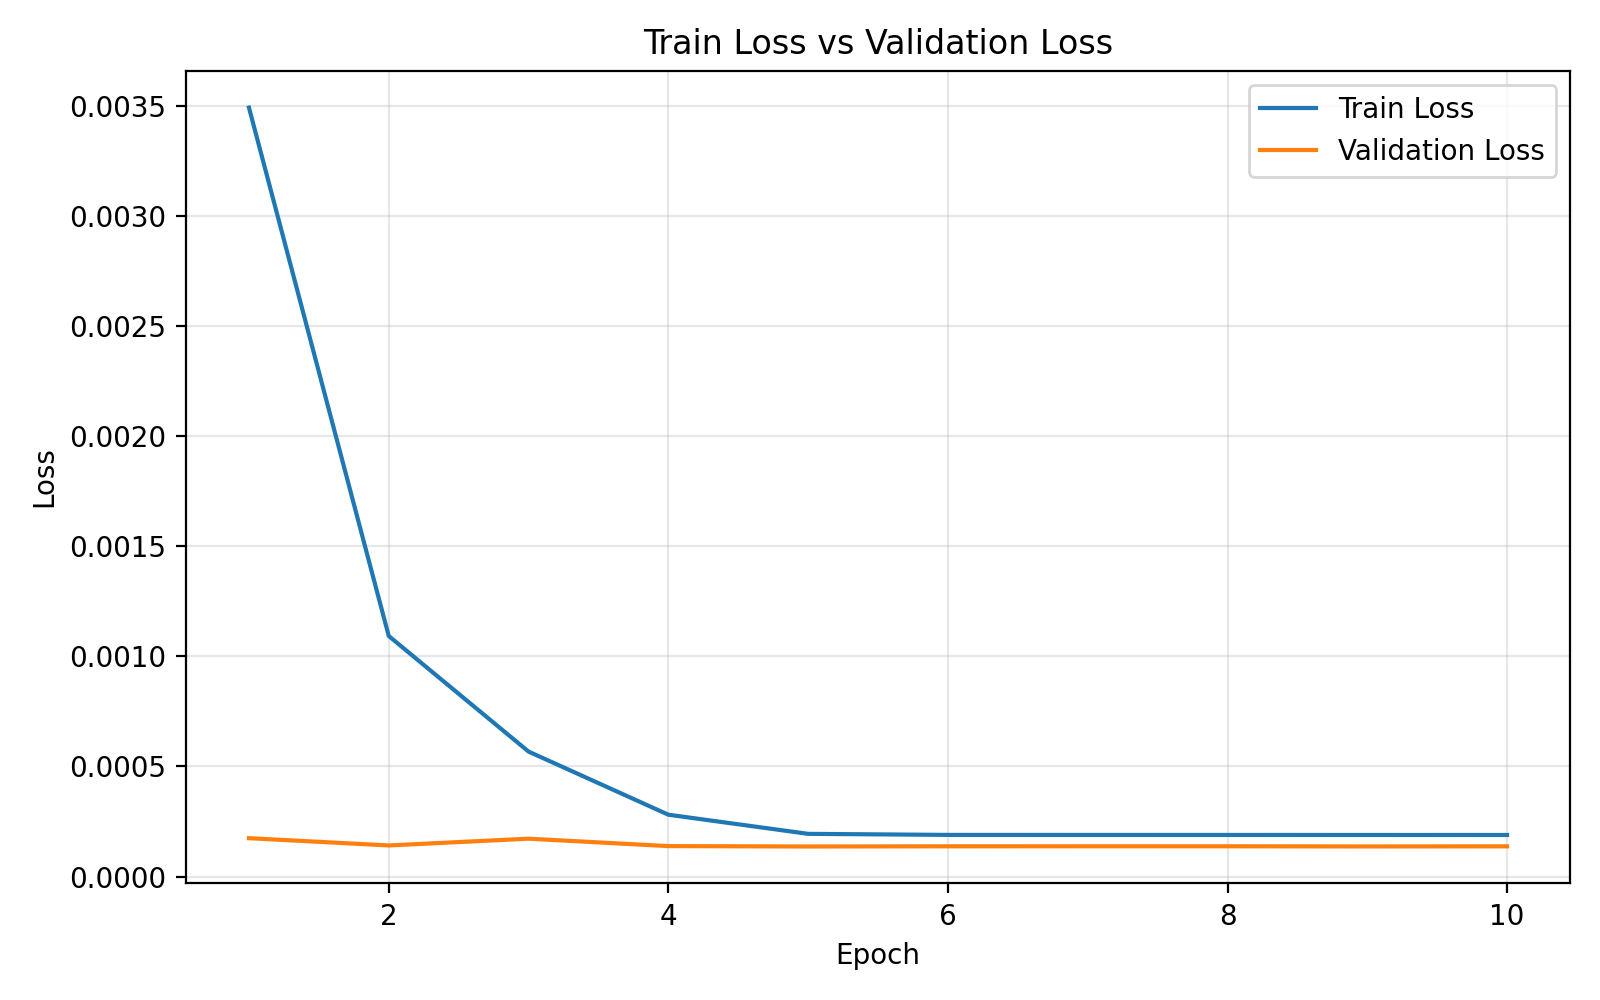
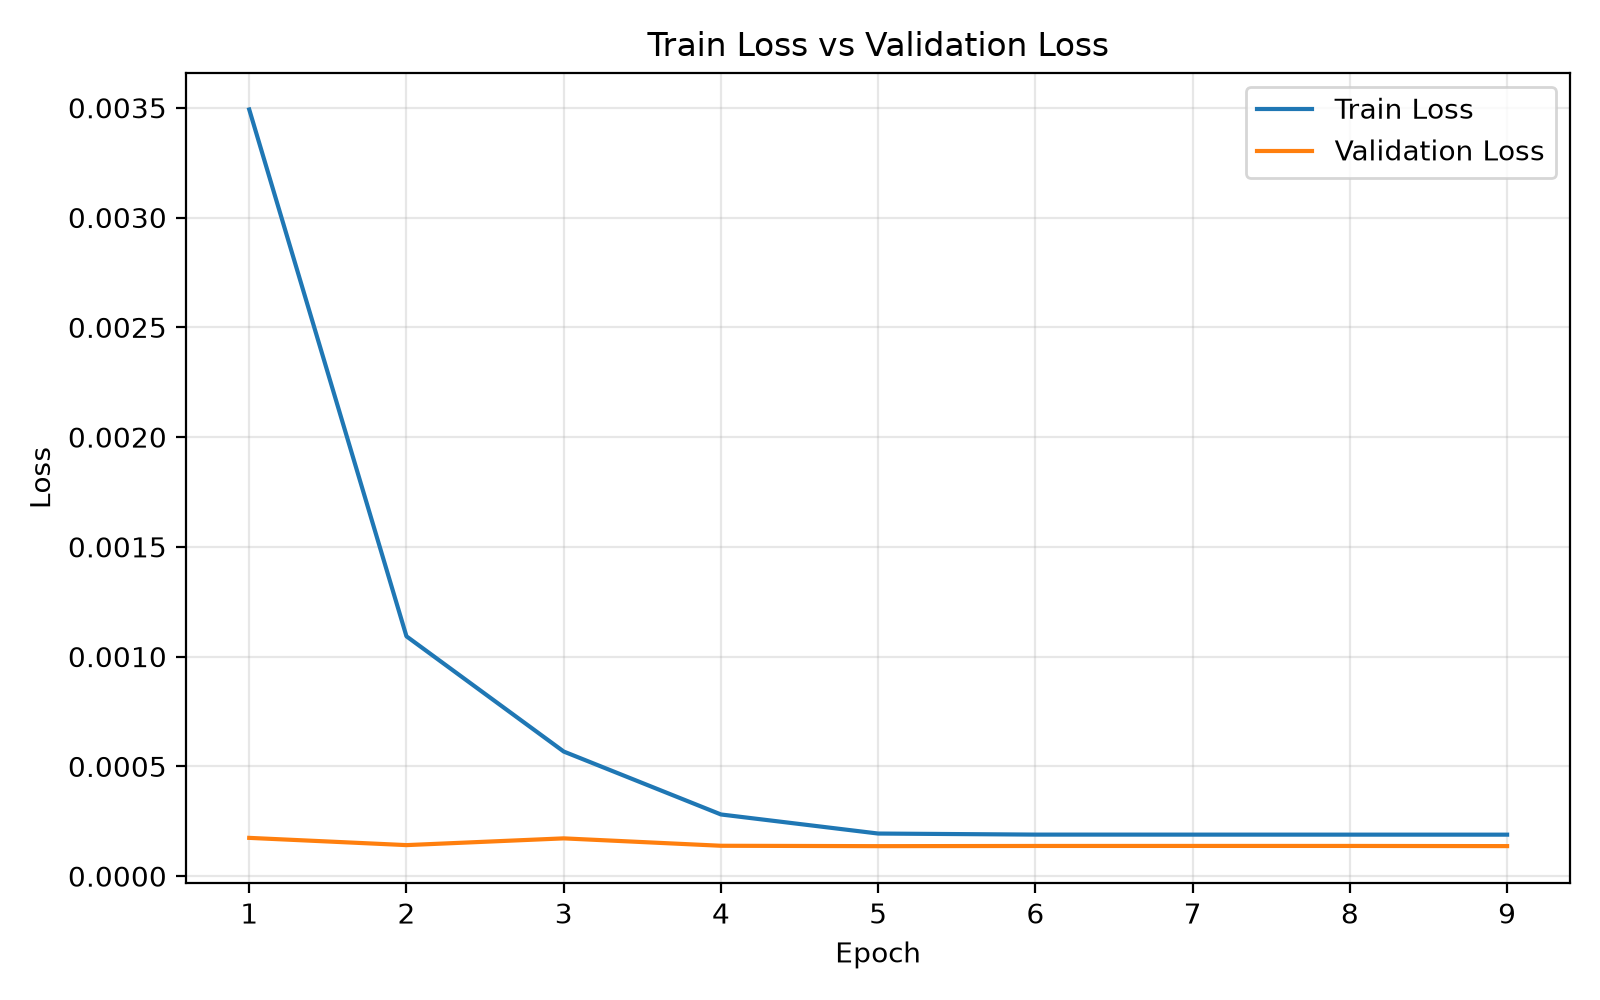
Add results README and figures; trim final-run history to its original 9 epochs

diff --git a/results/README.md b/results/README.md
@@ -1,0 +1,110 @@
+# Results
+
+This folder contains the training history and the plots of every run in Chapter 5 of the thesis, and the test metrics that the scripts recorded. Model weights are not included. The weights of the final model will be provided as a GitHub Release asset (see the main [README](../README.md#pretrained-model)).
+
+All files were written by the training scripts in [`training/experiments/`](../training/experiments/). Apart from the changes listed at the end, they are unchanged.
+
+## Final model
+
+The final configuration was retrained on the full participant-level split (26 / 6 / 6 recordings) and evaluated once on the test set of unseen participants (thesis Section 5.9, Table 21).
+
+![Mean RMSE of the final model and of the no-change reference on the validation and test sets](../docs/figures/final_results.png)
+
+*Mean RMSE of the final model compared with the no-change reference, which assumes zero head motion between consecutive frames. Validation values come from `history.csv` (best epoch 5), test values from `experiments_summary.csv`.*
+
+![RMSE per angle of the final model on the validation and test sets](../docs/figures/per_angle_results.png)
+
+*RMSE per angle. Yaw is the only angle with a higher error on the test set.*
+
+## Folder layout
+
+The folders follow the order of [`training/experiments/`](../training/experiments/). Every run folder carries the name that its script writes, `<experiment>__<value>`.
+
+```
+results/
+├── experiments_summary.csv
+├── 01_loss_function/
+│   └── Loss_Function__L1_Beta_0.1/
+│       ├── history.csv
+│       ├── plot_train_vs_val_loss.png
+│       ├── plot_val_mean_rmse.png
+│       ├── plot_val_mean_mae.png
+│       └── plot_val_mean_medae.png
+├── 02_imu_angle_aggregation/
+├── ...
+└── 08_final_model/
+    └── Final_Full_Dataset__Final_Config_All_Recordings/
+```
+
+| File | Content |
+|---|---|
+| `history.csv` | One row per epoch: training and validation loss; MAE, RMSE and MedAE in degrees for roll, pitch, yaw and their mean, on the training and validation sets; learning rates of the backbone and of the rest of the model; epoch time in minutes. |
+| `plot_train_vs_val_loss.png` | Training and validation loss per epoch. |
+| `plot_val_mean_rmse.png`, `plot_val_mean_mae.png`, `plot_val_mean_medae.png` | Validation Mean RMSE, MAE and MedAE per epoch. |
+| `experiments_summary.csv` | One row per run: best epoch, test loss, and test MAE, RMSE and MedAE per angle and mean. Each script appends its row after evaluating its best checkpoint on the test set. |
+
+The best epoch is the epoch with the lowest validation loss. Training stopped when the validation loss did not improve for 4 epochs, so every history ends 4 epochs after the best epoch.
+
+## Results of the experiments
+
+All values are validation metrics in degrees at the best epoch, computed from the `history.csv` files, on the intermediate subset (9 / 2 / 2 recordings). Each block corresponds to one table of Chapter 5.
+
+- The experiments are sequential (see [`training/README.md`](../training/README.md#how-the-experiments-were-run)).
+- **(ref.)** marks the reference configuration of a block. It was not trained again; its run belongs to an earlier step, and its folder is given in the table.
+- The configuration selected in each block is in **bold**.
+- The no-change reference on this validation set is a Mean RMSE of 0.845° (thesis Table 7).
+
+| Experiment | Configuration | Run folder | Best epoch | RMSE roll | RMSE pitch | RMSE yaw | Mean RMSE | Mean MAE | Mean MedAE |
+|---|---|---|---|---|---|---|---|---|---|
+| 1. Loss function (Table 8) | Smooth L1, β = 0.05 | `Loss_Function__L1_Beta_0.05` | 3 | 1.220 | 1.194 | 0.124 | 0.846 | 0.555 | 0.315 |
+|  | **Smooth L1, β = 0.1** | `Loss_Function__L1_Beta_0.1` | 6 | 1.223 | 1.194 | 0.123 | 0.846 | 0.553 | 0.314 |
+|  | Geodesic (ref.) | `Loss_Function__Geodesic` | 6 | 1.129 | 1.077 | 0.514 | 0.906 | 0.470 | 0.210 |
+| 2. IMU-angle aggregation (Table 9) | Nearest neighbour (ref.) | `Loss_Function__L1_Beta_0.1` | 6 | 1.223 | 1.194 | 0.123 | 0.846 | 0.553 | 0.314 |
+|  | Window 11 | `IMU_Angle_Experiment__Window_11` | 15 | 1.128 | 1.077 | 0.514 | 0.906 | 0.470 | 0.210 |
+|  | Window 21 | `IMU_Angle_Experiment__Window_21` | 9 | 1.009 | 0.972 | 0.385 | 0.789 | 0.411 | 0.169 |
+|  | **Window 31** | `IMU_Angle_Experiment__Window_31` | 9 | 0.884 | 0.877 | 0.323 | 0.695 | 0.355 | 0.136 |
+| 3. Temporal context (Table 10) | Past 10 / Future 0 | `Temporal_Context_Sweep__Past10_Future0` | 9 | 0.897 | 0.878 | 0.286 | 0.687 | 0.370 | 0.156 |
+|  | Past 20 / Future 0 | `Temporal_Context_Sweep__Past20_Future0` | 3 | 0.888 | 0.890 | 0.323 | 0.700 | 0.375 | 0.161 |
+|  | Past 20 / Future 5 (ref.) | `IMU_Angle_Experiment__Window_31` | 9 | 0.884 | 0.877 | 0.323 | 0.695 | 0.355 | 0.136 |
+|  | **Past 40 / Future 5** | `Temporal_Context_Sweep__Past40_Future5` | 2 | 0.893 | 0.875 | 0.286 | 0.685 | 0.363 | 0.147 |
+| 4. Batch size (Table 11) | **12** | `Batch_Size_Sweep__Batch12` | 5 | 0.891 | 0.877 | 0.285 | 0.684 | 0.358 | 0.138 |
+|  | 24 (ref.) | `Temporal_Context_Sweep__Past40_Future5` | 2 | 0.893 | 0.875 | 0.286 | 0.685 | 0.363 | 0.147 |
+| 5. Learning rate (Table 12) | 3e-5 | `LR_Sweep__AdamW_diffLR_base3e-5` | 4 | 0.898 | 0.877 | 0.285 | 0.687 | 0.367 | 0.152 |
+|  | **1e-4 (ref.)** | `Batch_Size_Sweep__Batch12` | 5 | 0.891 | 0.877 | 0.285 | 0.684 | 0.358 | 0.138 |
+|  | 2e-4 | `LR_Sweep__AdamW_diffLR_base2e-4` | 12 | 0.891 | 0.876 | 0.285 | 0.684 | 0.357 | 0.138 |
+|  | 3e-4 | `LR_Sweep__AdamW_diffLR_base3e-4` | 16 | 0.891 | 0.876 | 0.285 | 0.684 | 0.357 | 0.138 |
+| 6a. Dropout (Table 13) | 0.0 | `Dropout_Sweep__1e-4_dropout00` | 1 | 0.904 | 0.875 | 0.288 | 0.689 | 0.380 | 0.172 |
+|  | 0.05 | `Dropout_Sweep__1e-4_dropout005` | 4 | 0.903 | 0.893 | 0.286 | 0.694 | 0.388 | 0.180 |
+|  | 0.1 (ref.) | `Batch_Size_Sweep__Batch12` | 5 | 0.891 | 0.877 | 0.285 | 0.684 | 0.358 | 0.138 |
+|  | **0.2** | `Dropout_Sweep__1e-4_dropout02` | 5 | 0.891 | 0.876 | 0.285 | 0.684 | 0.357 | 0.138 |
+| 6b. Weight decay (Table 14) | **0** | `Weight_Decay_Sweep__wd_0` | 5 | 0.891 | 0.876 | 0.285 | 0.684 | 0.357 | 0.137 |
+|  | 0.001 | `Weight_Decay_Sweep__wd_0001` | 5 | 0.891 | 0.876 | 0.285 | 0.684 | 0.357 | 0.138 |
+|  | 0.01 (ref.) | `Dropout_Sweep__1e-4_dropout02` | 5 | 0.891 | 0.876 | 0.285 | 0.684 | 0.357 | 0.138 |
+|  | 0.05 | `Weight_Decay_Sweep__wd_005` | 2 | 0.891 | 0.876 | 0.291 | 0.686 | 0.368 | 0.153 |
+| 6c. Gradient clipping (Table 15) | None | `Gradient_Clipping_Sweep__gc_none` | 5 | 0.891 | 0.876 | 0.285 | 0.684 | 0.357 | 0.138 |
+|  | 0.5 | `Gradient_Clipping_Sweep__gc_05` | 5 | 0.891 | 0.876 | 0.285 | 0.684 | 0.357 | 0.138 |
+|  | **1.0 (ref.)** | `Weight_Decay_Sweep__wd_0` | 5 | 0.891 | 0.876 | 0.285 | 0.684 | 0.357 | 0.137 |
+|  | 5.0 | `Gradient_Clipping_Sweep__gc_5` | 5 | 0.891 | 0.876 | 0.285 | 0.684 | 0.357 | 0.138 |
+| 7a. Embedding dimension (Table 16) | 32 | `Architecture_Sweep__dmodel_32` | 14 | 0.891 | 0.876 | 0.285 | 0.684 | 0.357 | 0.138 |
+|  | **64 (ref.)** | `Weight_Decay_Sweep__wd_0` | 5 | 0.891 | 0.876 | 0.285 | 0.684 | 0.357 | 0.137 |
+|  | 128 | `Architecture_Sweep__dmodel_128` | 2 | 0.892 | 0.944 | 0.285 | 0.707 | 0.407 | 0.205 |
+|  | 256 | `Architecture_Sweep__dmodel_256` | 14 | 0.892 | 0.876 | 0.285 | 0.684 | 0.357 | 0.138 |
+| 7b. Encoder layers (Table 17) | 1 | `Architecture_Sweep__layers_1` | 1 | 0.896 | 0.877 | 0.286 | 0.686 | 0.366 | 0.151 |
+|  | **2 (ref.)** | `Weight_Decay_Sweep__wd_0` | 5 | 0.891 | 0.876 | 0.285 | 0.684 | 0.357 | 0.137 |
+|  | 3 | `Architecture_Sweep__layers_3` | 5 | 0.891 | 0.876 | 0.285 | 0.684 | 0.356 | 0.138 |
+|  | 4 | `Architecture_Sweep__layers_4` | 5 | 0.891 | 0.877 | 0.285 | 0.684 | 0.357 | 0.138 |
+| 7c. Attention heads (Table 18) | 2 | `Architecture_Sweep__head_2` | 7 | 0.892 | 0.881 | 0.285 | 0.686 | 0.364 | 0.144 |
+|  | **4 (ref.)** | `Weight_Decay_Sweep__wd_0` | 5 | 0.891 | 0.876 | 0.285 | 0.684 | 0.357 | 0.137 |
+|  | 8 | `Architecture_Sweep__head_8` | 1 | 0.894 | 0.876 | 0.288 | 0.686 | 0.366 | 0.151 |
+| 7d. Feed-forward dimension (Table 19) | 256 | `Architecture_Sweep__ffn_256` | 9 | 0.901 | 0.876 | 0.286 | 0.687 | 0.370 | 0.156 |
+|  | **512 (ref.)** | `Weight_Decay_Sweep__wd_0` | 5 | 0.891 | 0.876 | 0.285 | 0.684 | 0.357 | 0.137 |
+|  | 1024 | `Architecture_Sweep__ffn_1024` | 26 | 0.891 | 0.876 | 0.285 | 0.684 | 0.356 | 0.137 |
+|  | 2048 | `Architecture_Sweep__ffn_2048` | 3 | 0.892 | 0.878 | 0.285 | 0.685 | 0.359 | 0.139 |
+
+The test columns of `experiments_summary.csv` for these runs refer to the 2 test recordings of the intermediate subset. Configurations were selected on the validation set only.
+
+## Changes since the original files
+
+- Two run folders were renamed to the name their scripts now write: `Temporal_Contect_Sweep__Past10_Future0` and `..._Past20_Future0` to `Temporal_Context_Sweep__...` (see [`training/README.md`](../training/README.md#changes-since-the-original-files)), and `Batch_Size_12` to `Batch_Size_Sweep__Batch12`, which is the name written by the batch-size script and used in `experiments_summary.csv`.
+- The final run was launched a second time after it had stopped early at epoch 9. This second launch added one epoch (10) to the history and wrote the same test row to `experiments_summary.csv` again; the best model (epoch 5) was not affected. The extra epoch and the duplicate row were removed, and the four plots of this run were redrawn from the trimmed history with the plotting function of its script.
+- Model checkpoints (`best_model.pth`, `last_checkpoint.pth`) and Jupyter backup copies were not included.

diff --git a/training/README.md b/training/README.md
@@ -24,6 +24,14 @@ The experiments are **sequential**: each step varies one factor, and the configu
 
 All experiments use the intermediate subset (`fixed_split.json`). The final model was then retrained on the full split (`final_split.json`).
 
+![Sequential refinement: each experiment tests candidate values, the best validation configuration becomes the updated baseline of the next experiment](../docs/figures/sequential_refinement.png)
+
+*Sequential refinement of the configuration (thesis Figure 6).*
+
+![Overview of the experiments with the baseline, the tested values and the selected value of each factor](../docs/figures/experiments_overview.png)
+
+*Baseline, tested values and selected value of each experiment.*
+
 | Step | Folder | Section | Varied | Reference (run of the previous step) | Selected |
 |---|---|---|---|---|---|
 | 1 | `01_loss_function` | 5.2 | Geodesic, Smooth L1 β = 0.05, β = 0.1 | Geodesic (baseline configuration) | Smooth L1, β = 0.1 |
